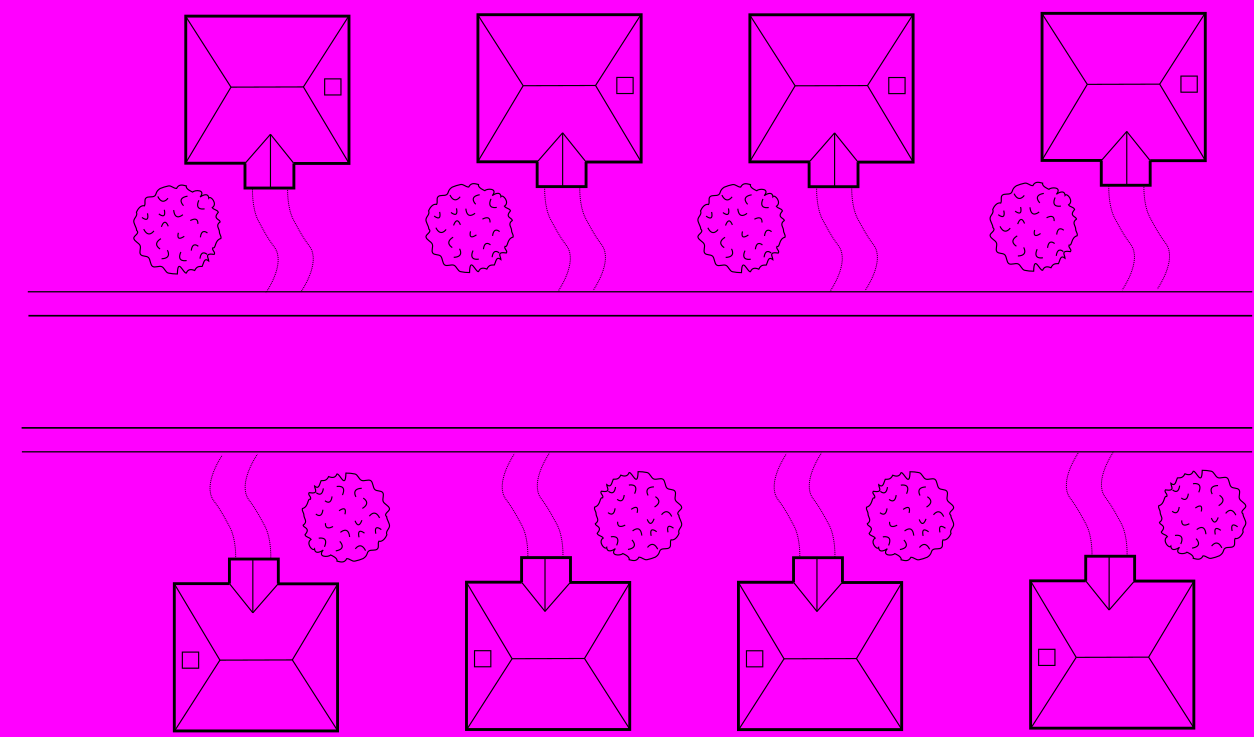
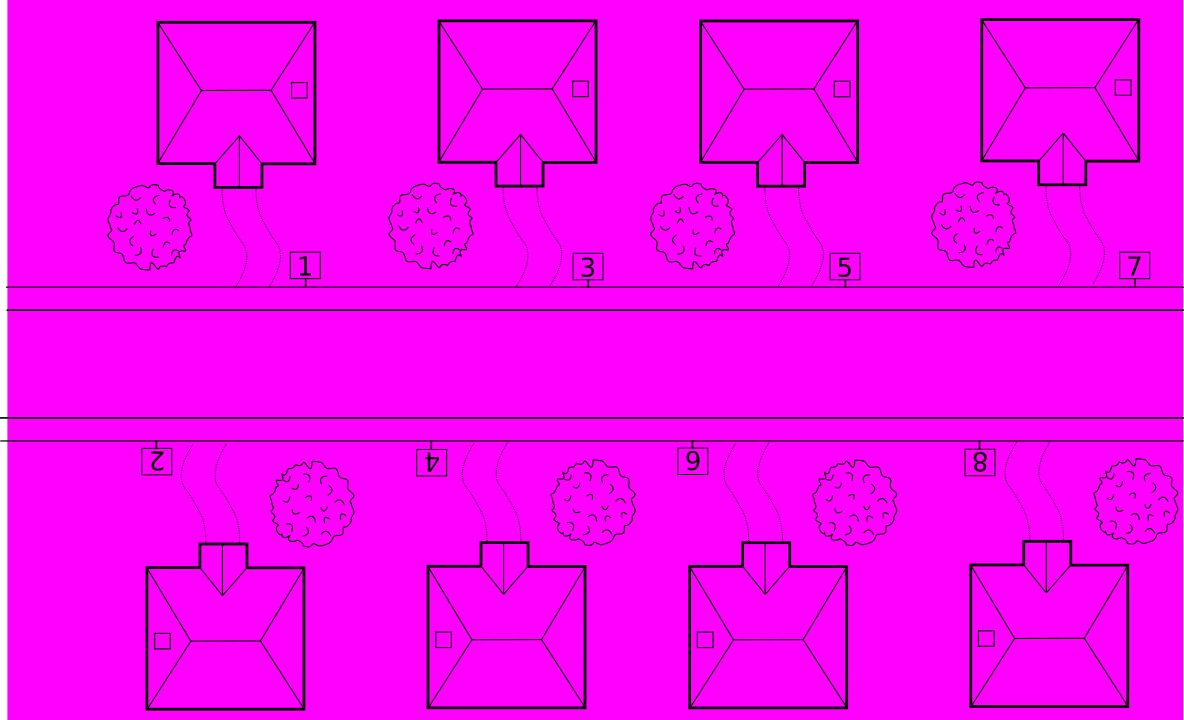
Fixed house numbers

Changed region(s): [[0.0, 0.0, 1.0, 1.0], [0.6562, 0.3056, 0.6875, 0.3361], [0.1562, 0.6722, 0.1875, 0.7028]]

diff --git a/thermostat.py b/thermostat.py
@@ -28,12 +28,12 @@ class App:
         GPIO.setup(18,GPIO.IN,pull_up_down=GPIO.PUD_DOWN)
 
         self.clock = pygame.time.Clock()
-        self._display_surf = pygame.display.set_mode(self.size, pygame.HWSURFACE | pygame.DOUBLEBUF)
+        self._display_surf = pygame.display.set_mode(self.size,pygame.FULLSCREEN)# pygame.HWSURFACE | pygame.DOUBLEBUF)
         self._running = True
         wx = self.width/5
         hx = self.height/3
         #self.houses = [House(wx*1,hx*1),House(wx*2,hx*1),House(wx*3,hx*1),House(wx*4,hx*1),House(wx*1,hx*2),House(wx*2,hx*2),House(wx*3,hx*2),House(wx*4,hx*2)]
-        self.houses = [House(272,88),House(572,88),House(848,88),House(1146,85), House(260,643),House(559,641),House(837,642),House(1134,640)]
+        self.houses = [House(255,92),House(559,90),House(842,91),House(1146,88), House(245,641),House(547,640),House(832,639),House(1135,638)]
 
         self.active_house = self.houses[0]
         self._score_font = pygame.font.Font("beon.ttf",42)
@@ -51,17 +51,17 @@ class App:
             elif event.key == pygame.K_1:
                 self.active_house=self.houses[0]
             elif event.key == pygame.K_2:
-                self.active_house=self.houses[1]
-            elif event.key == pygame.K_3:
-                self.active_house=self.houses[2]
-            elif event.key == pygame.K_4:
-                self.active_house=self.houses[3]
-            elif event.key == pygame.K_5:
                 self.active_house=self.houses[4]
-            elif event.key == pygame.K_6:
+            elif event.key == pygame.K_3:
+                self.active_house=self.houses[1]
+            elif event.key == pygame.K_4:
                 self.active_house=self.houses[5]
-            elif event.key == pygame.K_7:
+            elif event.key == pygame.K_5:
+                self.active_house=self.houses[2]
+            elif event.key == pygame.K_6:
                 self.active_house=self.houses[6]
+            elif event.key == pygame.K_7:
+                self.active_house=self.houses[3]
             elif event.key == pygame.K_8:
                 self.active_house=self.houses[7]
     def on_loop(self):
@@ -69,7 +69,7 @@ class App:
         self._cars.update()
         for h in self.houses:
             h.update(self._hits)
-        
+
         #if pygame.key.get_pressed()[pygame.K_SPACE]:
         if GPIO.input(18)==GPIO.HIGH:
             self.active_house.warmup()
